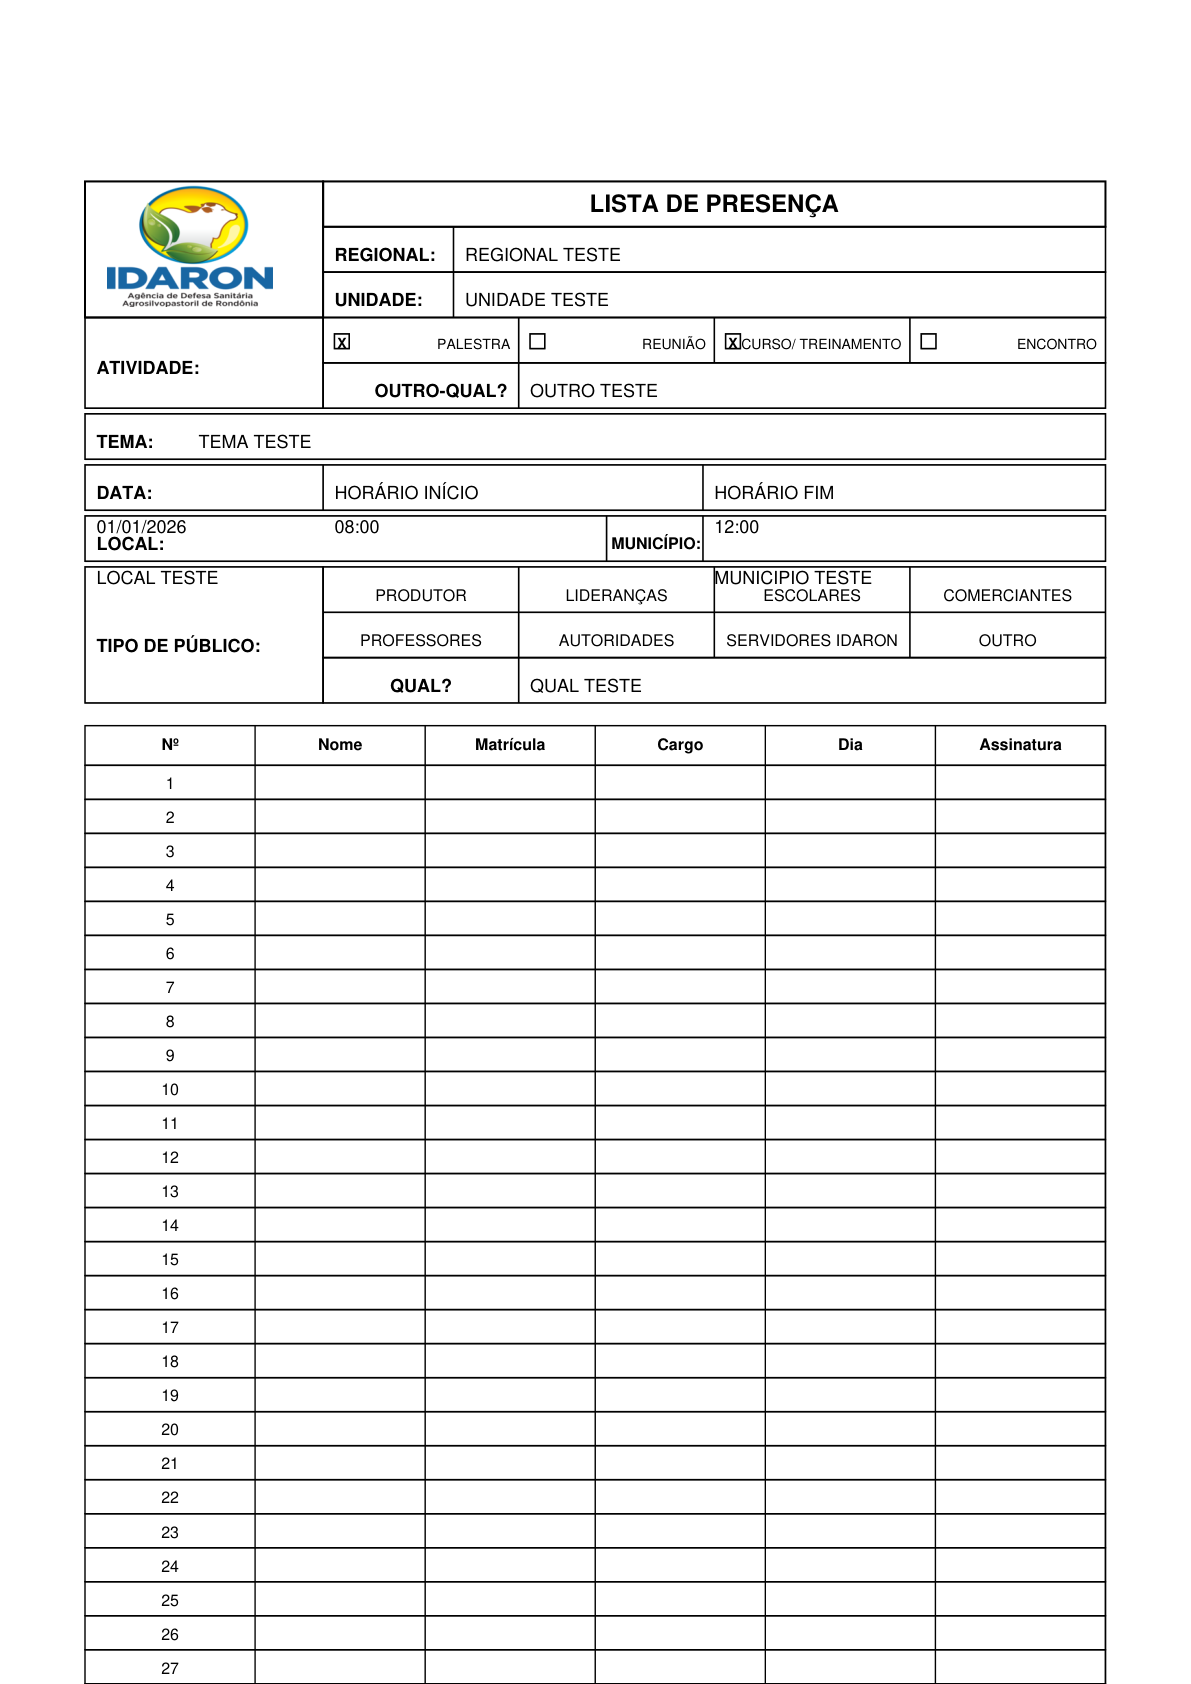
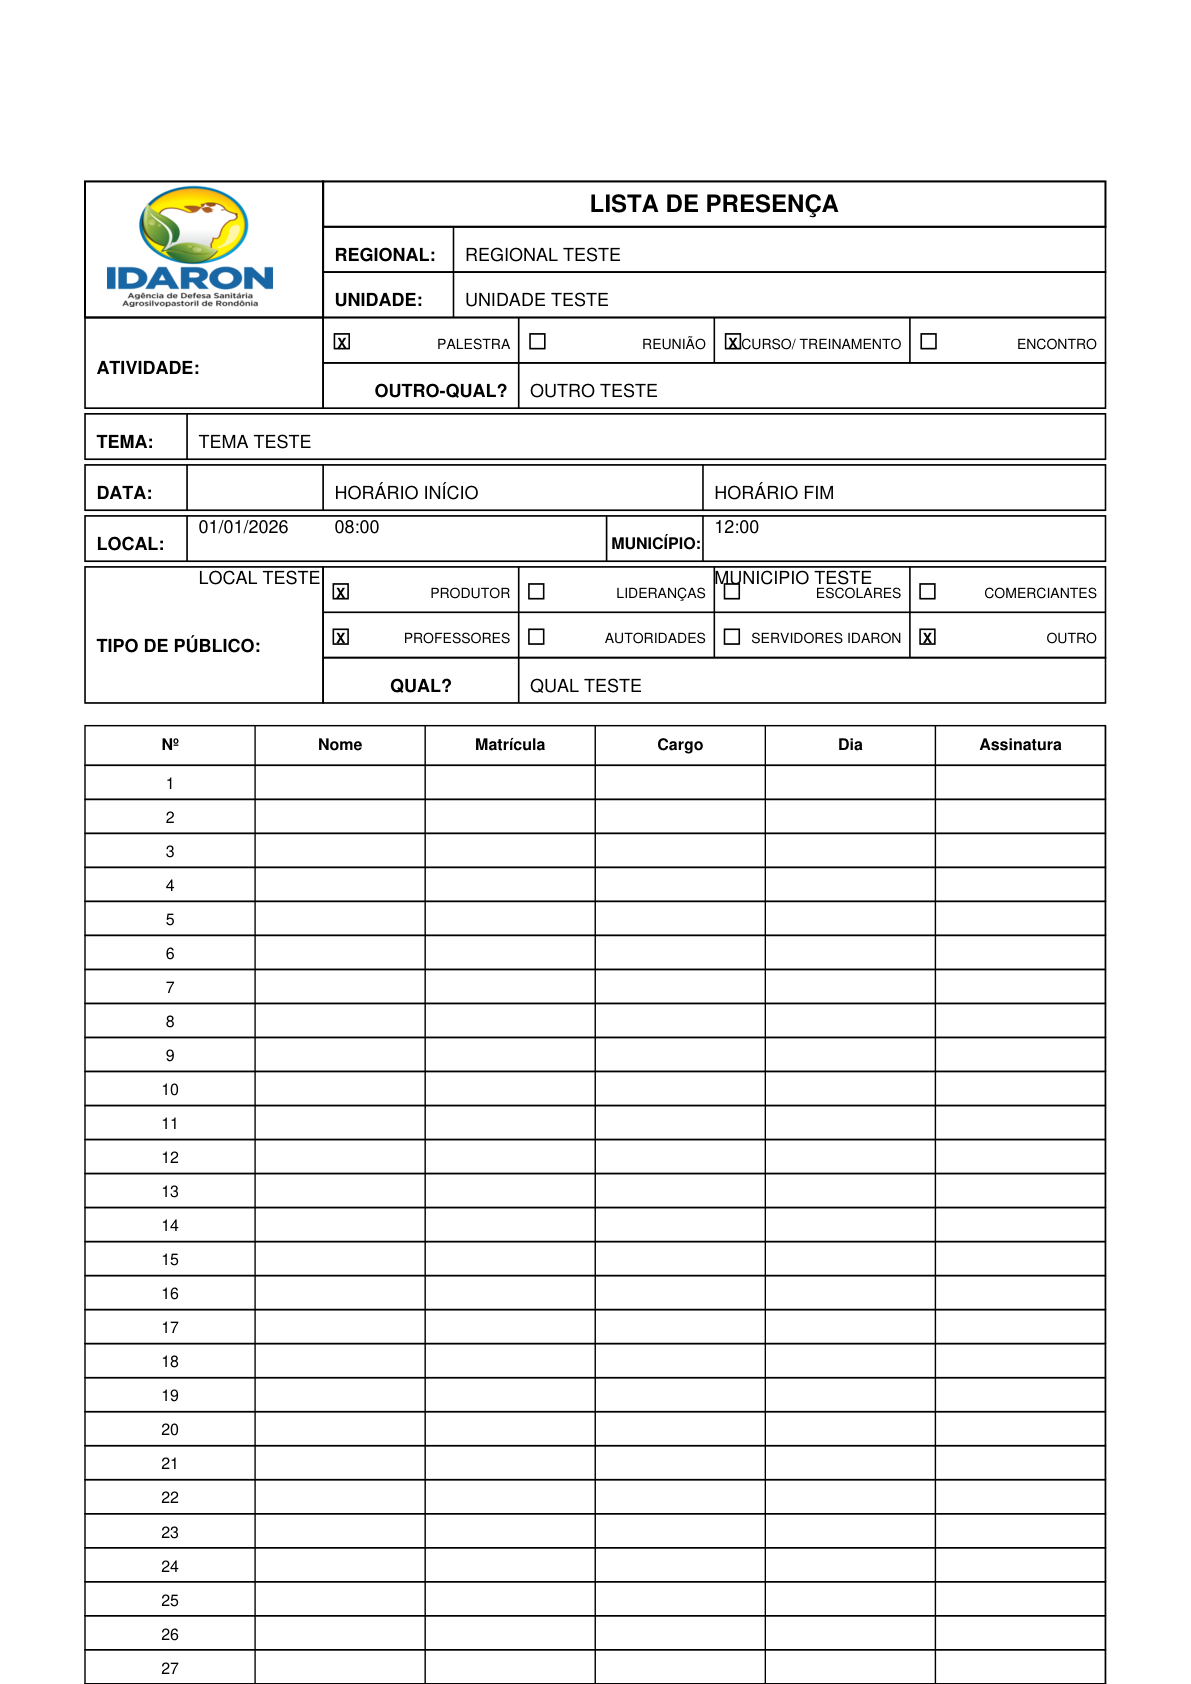
fechando a linha de tema

diff --git a/pdf/lista_presenca.py b/pdf/lista_presenca.py
@@ -140,16 +140,19 @@ def _draw_header(
     y -= h + 1 * mm
     # TEMA
     h = 8 * mm
+    rotulo_fim_x = x + 18 * mm
     c.rect(x, y - h, largura_tabela, h, fill=0)
+    c.line(rotulo_fim_x, y - h, rotulo_fim_x, y)
     c.setFont('Helvetica-Bold', 9)
     c.drawString(x + 2 * mm, y - h + 2 * mm, 'TEMA:')
     c.setFont('Helvetica', 9)
-    c.drawString(x + 20 * mm, y - h + 2 * mm, str(tema))
+    c.drawString(rotulo_fim_x + 2 * mm, y - h + 2 * mm, str(tema))
 
     y -= h + 1 * mm
     # DATA/HORÁRIO INÍCIO/HORÁRIO FIM
     h = 8 * mm
     c.rect(x, y - h, largura_tabela, h, fill=0)
+    c.line(rotulo_fim_x, y - h, rotulo_fim_x, y)
     c.line(x + 42 * mm, y - h, x + 42 * mm, y)
     c.line(x + 109 * mm, y - h, x + 109 * mm, y)
     c.setFont('Helvetica-Bold', 9)
@@ -157,7 +160,7 @@ def _draw_header(
     c.setFont('Helvetica', 9)
     c.drawString(x + 44 * mm, y - h + 2 * mm, 'HORÁRIO INÍCIO')
     c.drawString(x + 111 * mm, y - h + 2 * mm, 'HORÁRIO FIM')
-    c.drawString(x + 2 * mm, y - h - 4 * mm, str(data))
+    c.drawString(rotulo_fim_x + 2 * mm, y - h - 4 * mm, str(data))
     c.drawString(x + 44 * mm, y - h - 4 * mm, str(horario_inicio))
     c.drawString(x + 111 * mm, y - h - 4 * mm, str(horario_fim))
 
@@ -165,6 +168,7 @@ def _draw_header(
     # LOCAL / MUNICÍPIO
     h = 8 * mm
     c.rect(x, y - h, largura_tabela, h, fill=0)
+    c.line(rotulo_fim_x, y - h, rotulo_fim_x, y)
     municipio_x = x + 92 * mm
     municipio_label_end_x = x + 109 * mm
     c.line(municipio_x, y - h, municipio_x, y)
@@ -174,7 +178,7 @@ def _draw_header(
     c.setFont('Helvetica-Bold', 8)
     c.drawString(municipio_x + 0.8 * mm, y - h + 2.2 * mm, 'MUNICÍPIO:')
     c.setFont('Helvetica', 9)
-    c.drawString(x + 2 * mm, y - h - 4 * mm, str(local))
+    c.drawString(rotulo_fim_x + 2 * mm, y - h - 4 * mm, str(local))
     c.drawString(municipio_label_end_x + 2 * mm, y - h - 4 * mm, str(municipio))
 
     y -= h + 1 * mm
@@ -194,15 +198,28 @@ def _draw_header(
     c.line(publico_col3, y - (2 * h), publico_col3, y)
     c.line(area_campos_x, y - h, area_campos_x + area_campos_w, y - h)
 
-    c.setFont('Helvetica', 8)
-    c.drawCentredString((area_campos_x + publico_col1) / 2, y - h + 2 * mm, 'PRODUTOR')
-    c.drawCentredString((publico_col1 + publico_col2) / 2, y - h + 2 * mm, 'LIDERANÇAS')
-    c.drawCentredString((publico_col2 + publico_col3) / 2, y - h + 2 * mm, 'ESCOLARES')
-    c.drawCentredString((publico_col3 + area_campos_x + area_campos_w) / 2, y - h + 2 * mm, 'COMERCIANTES')
-    c.drawCentredString((area_campos_x + publico_col1) / 2, y - (2 * h) + 2 * mm, 'PROFESSORES')
-    c.drawCentredString((publico_col1 + publico_col2) / 2, y - (2 * h) + 2 * mm, 'AUTORIDADES')
-    c.drawCentredString((publico_col2 + publico_col3) / 2, y - (2 * h) + 2 * mm, 'SERVIDORES IDARON')
-    c.drawCentredString((publico_col3 + area_campos_x + area_campos_w) / 2, y - (2 * h) + 2 * mm, 'OUTRO')
+    publico_selecionado = {item.strip().lower() for item in str(tipo_publico).split(',') if item.strip()}
+    checkbox_size = 2.6 * mm
+    c.setFont('Helvetica', 7)
+    opcoes_publico = [
+        (area_campos_x, publico_col1, y - h, 'PRODUTOR', 'produtor'),
+        (publico_col1, publico_col2, y - h, 'LIDERANÇAS', 'lideranças'),
+        (publico_col2, publico_col3, y - h, 'ESCOLARES', 'escolares'),
+        (publico_col3, area_campos_x + area_campos_w, y - h, 'COMERCIANTES', 'comerciantes'),
+        (area_campos_x, publico_col1, y - (2 * h), 'PROFESSORES', 'professores'),
+        (publico_col1, publico_col2, y - (2 * h), 'AUTORIDADES', 'autoridades'),
+        (publico_col2, publico_col3, y - (2 * h), 'SERVIDORES IDARON', 'servidores idaron'),
+        (publico_col3, area_campos_x + area_campos_w, y - (2 * h), 'OUTRO', 'outro'),
+    ]
+    for x0, x1, y_base, label, chave in opcoes_publico:
+        checkbox_x = x0 + 1.8 * mm
+        checkbox_y = y_base + 2.4 * mm
+        c.rect(checkbox_x, checkbox_y, checkbox_size, checkbox_size, fill=0)
+        if chave in publico_selecionado:
+            c.setFont('Helvetica-Bold', 7)
+            c.drawCentredString(checkbox_x + checkbox_size / 2, checkbox_y + 0.15 * mm, 'X')
+            c.setFont('Helvetica', 7)
+        c.drawRightString(x1 - 1.5 * mm, y_base + 2.5 * mm, label)
 
     y -= 2 * h
     # QUAL
